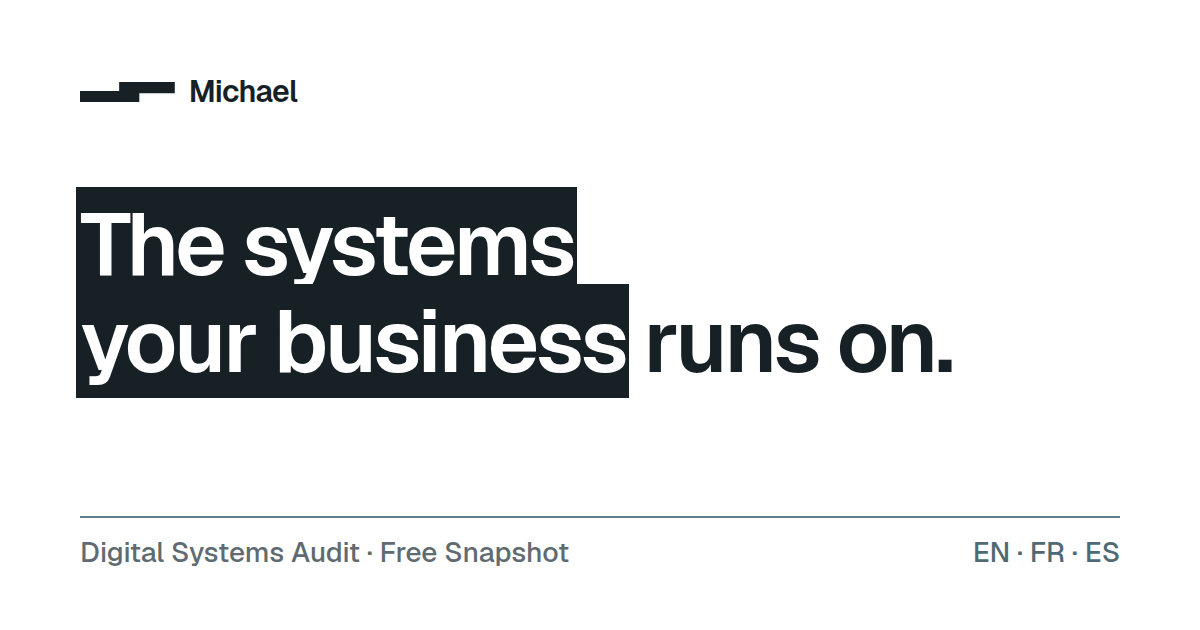
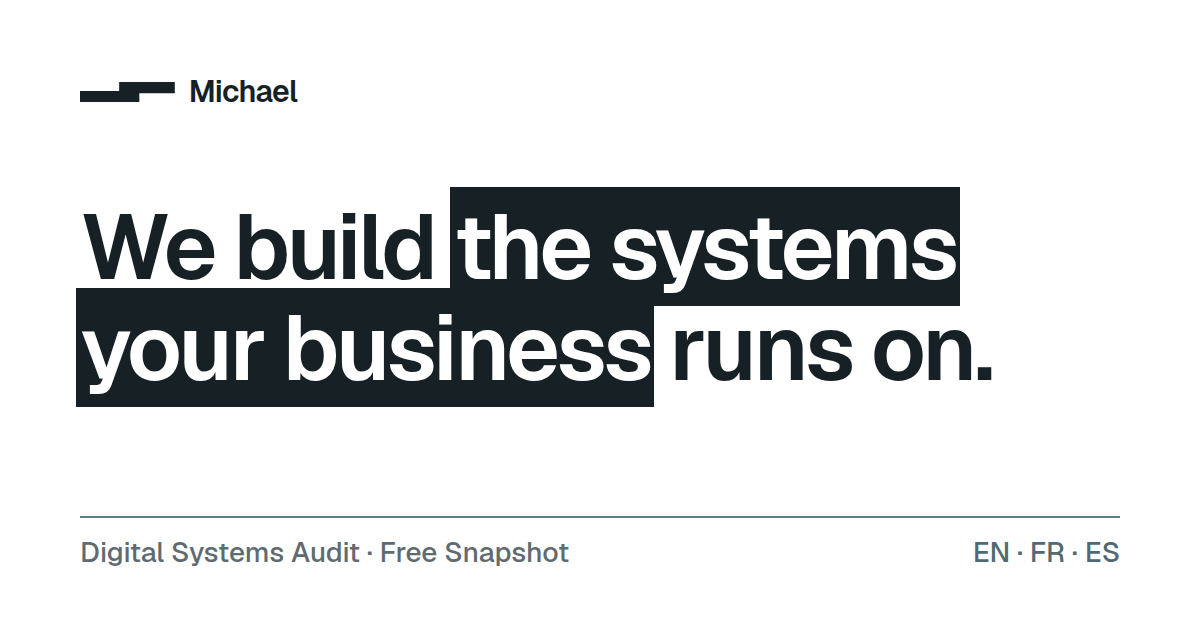
Restore the Z-shaped home headline in every language
The headline is back to the original four-part construction: a plain lead-in
and a black block on the first line, a black block and plain text on the
second. English: "We build [the systems] / [your business] runs on." French and
Spanish follow the same Z. The size now follows the screen width so the two
lines never wrap (tablet to desktop) and each phrase stays whole on phones.
Share images regenerated to match; README documents how to keep the shape.

Claude-Session: https://claude.ai/code/session_01Pea1EK6F8kDcKkZx4pQJMd

Changed region(s): [[0.0617, 0.2714, 0.8325, 0.6635]]

diff --git a/components/home/Hero.tsx b/components/home/Hero.tsx
@@ -29,27 +29,19 @@ export async function Hero() {
   return (
     <section className="overflow-hidden pt-12 sm:pt-16 lg:pt-20">
       <Container>
-        <div className="max-w-4xl">
+        <div className="max-w-5xl">
           {/*
-           * Knocked-out headline: phrases sit on tight ink blocks that follow each line of text.
-           * Two lines from sm up; on phones each phrase gets its own line so the blocks never wrap mid-phrase.
+           * Knocked-out headline in a "Z": a plain lead-in and a black block on the first line, a black block
+           * and plain text on the second. Two lines from sm up, in every language; on phones each phrase gets
+           * its own line so the blocks never wrap mid-phrase. The size follows the width (see text-display)
+           * so the longer French and Spanish lines stay on two lines too.
            */}
           <h1 className="text-display">
-            {t.lead && (
-              <>
-                {t.lead} <br className="sm:hidden" />
-              </>
-            )}
+            {t.lead} <br className="sm:hidden" />
             <Knockout>{t.block1}</Knockout>
             <br />
-            <Knockout>{t.block2}</Knockout>
-            {t.tail && (
-              <>
-                {" "}
-                <br className="sm:hidden" />
-                {t.tail}
-              </>
-            )}
+            <Knockout>{t.block2}</Knockout> <br className="sm:hidden" />
+            {t.tail}
           </h1>
           <p className="mt-6 max-w-2xl text-lg leading-relaxed text-pretty sm:text-xl">{t.intro}</p>
           <CtaPair long className="mt-10" />

diff --git a/lib/content/fr/home.ts b/lib/content/fr/home.ts
@@ -7,10 +7,10 @@ export const home: Home = {
     "Nous concevons, construisons et exploitons des sites web, des portails clients, des logiciels internes et des automatisations pour les entreprises de services et d'exploitation. Commencez par un audit des systèmes numériques.",
 
   hero: {
-    lead: "",
-    block1: "Les systèmes",
-    block2: "qui font tourner votre entreprise",
-    tail: "",
+    lead: "Nous construisons",
+    block1: "les systèmes",
+    block2: "qui font tourner",
+    tail: "votre entreprise.",
     intro:
       "Nous concevons, construisons et exploitons des sites web, des portails clients, des logiciels internes et des automatisations pour les entreprises de services et d'exploitation établies. Une seule équipe responsable, du diagnostic à l'exploitation quotidienne, en français, en anglais et en espagnol.",
     facts: [

diff --git a/lib/content/es/home.ts b/lib/content/es/home.ts
@@ -7,10 +7,10 @@ export const home: Home = {
     "Diseñamos, construimos y operamos sitios web, portales de clientes, software interno y automatizaciones para empresas de servicios y operaciones. Empiece con una auditoría de sistemas digitales.",
 
   hero: {
-    lead: "",
-    block1: "Los sistemas",
-    block2: "que hacen funcionar su empresa",
-    tail: "",
+    lead: "Construimos",
+    block1: "los sistemas",
+    block2: "que hacen funcionar",
+    tail: "su empresa.",
     intro:
       "Diseñamos, construimos y operamos sitios web, portales de clientes, software interno y automatizaciones para empresas de servicios y operaciones ya establecidas. Un solo equipo responsable, del diagnóstico a la operación diaria, en español, inglés y francés.",
     facts: [

diff --git a/app/globals.css b/app/globals.css
@@ -134,15 +134,14 @@
  * and subheading (headings inside sections).
  */
 @utility text-display {
-  font-size: 2.5rem;
+  /* Phones: each phrase of the headline gets its own line, so the size follows the width to keep every phrase whole. */
+  font-size: min(2.5rem, 9.2vw);
   line-height: 1.05;
   letter-spacing: -0.035em;
   font-weight: 600;
+  /* From tablet up the size follows the width, capped at desktop size, so the two-line headline never wraps. */
   @media (width >= 40rem) {
-    font-size: 3.25rem;
-  }
-  @media (width >= 64rem) {
-    font-size: 3.75rem;
+    font-size: min(3.75rem, calc(6.6vw - 0.3rem));
   }
 }
 

diff --git a/lib/content/en/home.ts b/lib/content/en/home.ts
@@ -11,8 +11,8 @@ export const home = {
 
   hero: {
     // The headline alternates plain text and ink blocks: [lead] [block1] / [block2] [tail]
-    lead: "",
-    block1: "The systems",
+    lead: "We build",
+    block1: "the systems",
     block2: "your business",
     tail: "runs on.",
     intro:

diff --git a/README.md b/README.md
@@ -110,6 +110,7 @@ Secrets are only read on the server and are never exposed to the browser. For co
 
 ## Look and feel
 
+- **The home headline keeps its "Z" in every language**: a plain lead-in and a black block on the first line, a black block and plain text on the second (`lead`, `block1`, `block2`, `tail` in `home.ts`, for example "We build [the systems] / [your business] runs on."). Its size follows the screen width so the two lines never wrap; on phones each phrase gets its own line. When you edit or translate it, keep all four parts and check the result at several widths.
 - Typeface: Geist Sans, self-hosted through the `geist` package. Colors and the heading scale are defined once in `app/globals.css`. One deep accent color plus neutrals; the deeper `accent-strong` shade is used for small text so it meets WCAG AA contrast.
 - The signature illustration is the **system map** (`components/illustrations/SystemMap.tsx`), plain HTML and CSS so it reads in every language. There are no stock photos: the About page shows a real photo of the founder once you set `founderPhoto` in `lib/site.ts`.
 - Share images are in `public/og/` (one per language, 1200 × 630).
